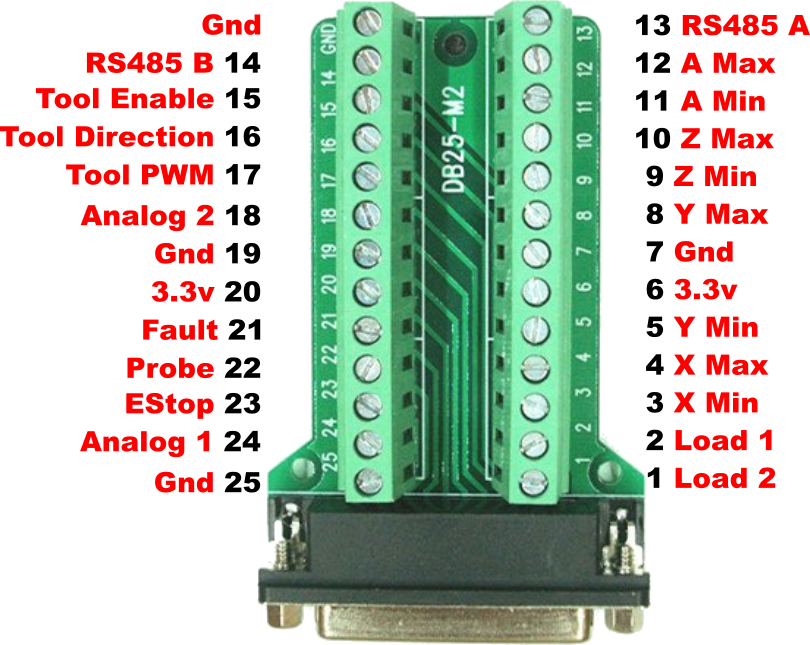
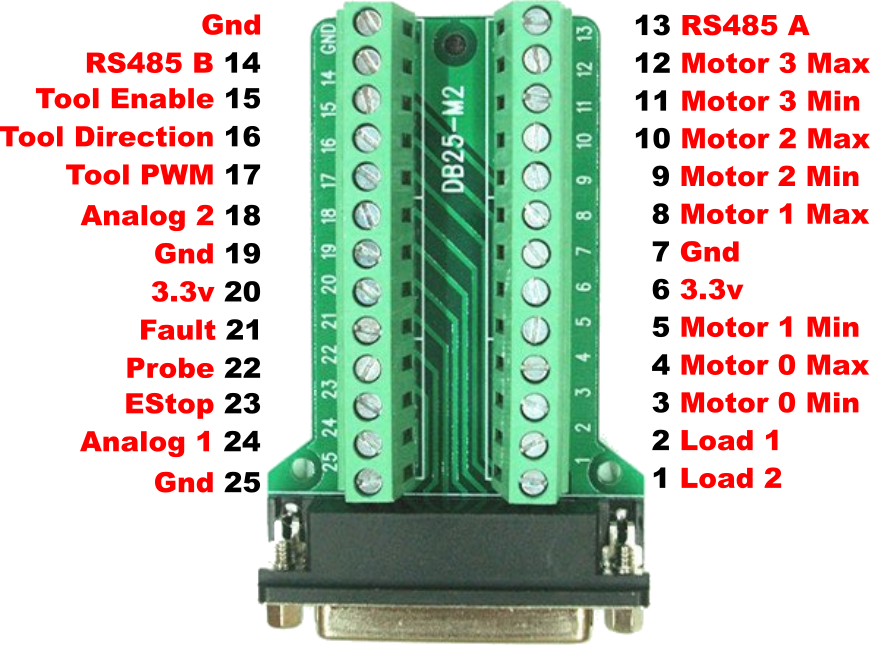
- Fixed pin fault output.  - No longer using interupts for switch inputs.  Debouncing on clock tick.  - Updated DB25 M2 breakout diagram.  - Enabled AVR watchdog.

diff --git a/src/avr/src/switch.c b/src/avr/src/switch.c
@@ -39,7 +39,7 @@ typedef struct {
 
   switch_callback_t cb;
   bool state;
-  bool triggered;
+  int8_t debounce;
 } switch_t;
 
 
@@ -66,49 +66,11 @@ static switch_t switches[] = {
 const int num_switches = sizeof(switches) / sizeof (switch_t);
 
 
-static bool _read_state(const switch_t *s) {return IN_PIN(s->pin);}
-
-
-static void _switch_isr() {
-  for (int i = 0; i < num_switches; i++) {
-    switch_t *s = &switches[i];
-    if (s->type == SW_DISABLED || s->triggered) continue;
-    s->triggered = _read_state(s) != s->state;
-    if (s->triggered) PORT(s->pin)->INT0MASK &= ~BM(s->pin); // Disable INT0
-  }
-}
-
-
-// Switch interrupt handler vectors
-ISR(PORTA_INT0_vect) {_switch_isr();}
-ISR(PORTB_INT0_vect) {_switch_isr();}
-ISR(PORTC_INT0_vect) {_switch_isr();}
-ISR(PORTD_INT0_vect) {_switch_isr();}
-ISR(PORTE_INT0_vect) {_switch_isr();}
-ISR(PORTF_INT0_vect) {_switch_isr();}
-
-
-void _switch_enable(switch_t *s, bool enable) {
-  if (enable) {
-    s->triggered = false;
-    s->state = _read_state(s);                  // Initialize state
-    PORT(s->pin)->INT0MASK |= BM(s->pin);       // Enable INT0
-
-  } else PORT(s->pin)->INT0MASK &= ~BM(s->pin); // Disable INT0
-}
-
-
 void switch_init() {
   for (int i = 0; i < num_switches; i++) {
     switch_t *s = &switches[i];
-
-    // Pull up, trigger on both edges and enable slew rate limiting
-    PINCTRL_PIN(s->pin) =
-      PORT_OPC_PULLUP_gc | PORT_ISC_BOTHEDGES_gc;// | PORT_SRLEN_bm;
+    PINCTRL_PIN(s->pin) = PORT_OPC_PULLUP_gc; // Pull up
     DIRCLR_PIN(s->pin); // Input
-    PORT(s->pin)->INTCTRL |= SWITCH_INTLVL; // Set interrupt level
-
-    _switch_enable(s, s->type != SW_DISABLED);
   }
 }
 
@@ -118,14 +80,14 @@ void switch_rtc_callback() {
   for (int i = 0; i < num_switches; i++) {
     switch_t *s = &switches[i];
 
-    if (s->type == SW_DISABLED || !s->triggered) continue;
+    if (s->type == SW_DISABLED) continue;
 
-    bool state = _read_state(s);
-    s->triggered = false;
-    PORT(s->pin)->INT0MASK |= BM(s->pin); // Reenable INT0
-
-    if (state != s->state) {
+    // Debounce switch
+    bool state = IN_PIN(s->pin);
+    if (state == s->state) s->debounce = 0;
+    else if (++s->debounce == SWITCH_DEBOUNCE) {
       s->state = state;
+      s->debounce = 0;
       if (s->cb) s->cb(i, switch_is_active(i));
     }
   }
@@ -159,8 +121,10 @@ void switch_set_type(int index, switch_type_t type) {
   switch_t *s = &switches[index];
 
   if (s->type != type) {
+    bool wasActive = switch_is_active(index);
     s->type = type;
-    _switch_enable(s, type != SW_DISABLED);
+    bool isActive = switch_is_active(index);
+    if (wasActive != isActive && s->cb) s->cb(index, isActive);
   }
 }
 

diff --git a/src/avr/src/vars.c b/src/avr/src/vars.c
@@ -159,9 +159,6 @@ void vars_init() {
 
 
 void vars_report(bool full) {
-  // Save and disable watchdog
-  uint8_t wd_state = hw_disable_watchdog();
-
   bool reported = false;
 
 #define VAR(NAME, CODE, TYPE, INDEX, ...)                               \
@@ -190,9 +187,6 @@ void vars_report(bool full) {
 #undef VAR
 
   if (reported) printf("}\n");
-
-  // Restore watchdog
-  hw_restore_watchdog(wd_state);
 }
 
 void vars_report_all(bool enable) {
@@ -334,9 +328,6 @@ void vars_print_json() {
     "\"help\":\"%"PRPSTR"\"";
   static const char index_fmt[] PROGMEM = ",\"index\":\"%s\"";
 
-  // Save and disable watchdog
-  uint8_t wd_state = hw_disable_watchdog();
-
 #define VAR(NAME, CODE, TYPE, INDEX, ...)                               \
   if (first) first = false; else putchar(',');                          \
   printf_P(fmt, #CODE, NAME##_name, type_get_##TYPE##_name_pgm(),       \
@@ -345,9 +336,6 @@ void vars_print_json() {
   putchar('}');
 #include "vars.def"
 #undef VAR
-
-  // Restore watchdog
-  hw_restore_watchdog(wd_state);
 }
 
 

diff --git a/src/avr/src/hardware.c b/src/avr/src/hardware.c
@@ -127,8 +127,6 @@ void hardware_init() {
 void hw_request_hard_reset() {hw.hard_reset = true;}
 
 
-/// Hard reset using watchdog timer
-/// software hard reset using the watchdog timer
 void hw_hard_reset() {
   usart_flush();
   cli();
@@ -148,21 +146,4 @@ void hw_reset_handler() {
 }
 
 
-uint8_t hw_disable_watchdog() {
-  uint8_t state = WDT.CTRL;
-  wdt_disable();
-  return state;
-}
-
-
-void hw_restore_watchdog(uint8_t state) {
-  cli();
-  CCP = CCP_IOREG_gc;
-  WDT.CTRL = state | WDT_CEN_bm;
-  sei();
-}
-
-
-const char *get_hw_id() {
-  return hw.id;
-}
+const char *get_hw_id() {return hw.id;}

diff --git a/src/avr/src/main.c b/src/avr/src/main.c
@@ -51,7 +51,7 @@
 
 
 int main() {
-  //wdt_enable(WDTO_250MS); TODO
+  wdt_enable(WDTO_250MS);
 
   // Init
   cli();                          // disable interrupts
@@ -81,7 +81,6 @@ int main() {
     state_callback();             // manage state
     command_callback();           // process next command
     report_callback();            // report changes
-    wdt_reset();
   }
 
   return 0;

diff --git a/src/avr/test/hal.c b/src/avr/test/hal.c
@@ -63,8 +63,6 @@ typedef const char *pstring;
 float square(float x) {return x * x;}
 void i2c_set_read_callback(i2c_read_cb_t cb) {}
 void print_status_flags(uint8_t flags) {DEBUG_CALL();}
-uint8_t hw_disable_watchdog() {return 0;}
-void hw_restore_watchdog(uint8_t state) {}
 
 
 bool estop = false;

diff --git a/src/avr/src/rtc.c b/src/avr/src/rtc.c
@@ -34,6 +34,7 @@
 
 #include <avr/io.h>
 #include <avr/interrupt.h>
+#include <avr/wdt.h>
 
 #include <string.h>
 
@@ -48,6 +49,7 @@ ISR(RTC_OVF_vect) {
   hy_rtc_callback();
   if (!(ticks & 255)) motor_rtc_callback();
   lcd_rtc_callback();
+  wdt_reset();
 }
 
 

diff --git a/src/avr/src/hardware.h b/src/avr/src/hardware.h
@@ -36,6 +36,3 @@ void hardware_init();
 void hw_request_hard_reset();
 void hw_hard_reset();
 void hw_reset_handler();
-
-uint8_t hw_disable_watchdog();
-void hw_restore_watchdog(uint8_t state);

diff --git a/src/avr/src/config.h b/src/avr/src/config.h
@@ -100,7 +100,7 @@ enum {
 
 
 // Switch settings.  See switch.c
-#define SWITCH_INTLVL  PORT_INT0LVL_MED_gc
+#define SWITCH_DEBOUNCE 5 // ms
 
 
 // Motor ISRs

diff --git a/src/avr/src/command.c b/src/avr/src/command.c
@@ -43,7 +43,6 @@
 #include "cpp_magic.h"
 
 #ifdef __AVR__
-#include <avr/wdt.h>
 #include <util/atomic.h>
 #else
 #define ATOMIC_BLOCK(x)

diff --git a/CHANGELOG.md b/CHANGELOG.md
@@ -1,10 +1,15 @@
 Buildbotics CNC Controller Firmware Change Log
 ==============================================
 
+## v0.3.12
+ - Updated DB25 M2 breakout diagram.
+ - Enabled AVR watchdog.
+
 ## v0.3.11
  - Supressed ``firmware rebooted`` warning.
  - Error on unexpected AVR reboot.
- - Enabled switch input slew rate limiting.
+ - Fixed pin fault output.
+ - No longer using interupts for switch inputs.  Debouncing on clock tick.
 
 ## v0.3.10
  - Fixed "Flood" display, changed to "Load 1" and "Load 2".  #108
